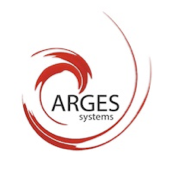
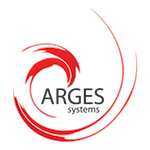
Work: Updated client images position and scale, added Temasek.

Changed region(s): [[0.08, 0.0533, 0.9333, 0.96], [0.6933, 0.7467, 0.8, 0.8533]]

diff --git a/work/index.html b/work/index.html
@@ -88,9 +88,10 @@
 				<div id="content">
 					<p>For more details, see my linkedin profile available in the sidebar. This page is intended as a quick overview. Below are some of the companies and titles I have either done freelance work for or licensed software to.</p>
 <center>
-	<p style="margin:none"><a href="http://www.autodesk.com"><img src="/resources/clients/autodesk.png" style="float:none;" title="Autodesk" alt="Autodesk" /></a></p>
-	<p style="margin:none; margin-bottom: 50pt;"><a href="http://dice.se"><img src="/resources/clients/dice.png" style="float:none;" title="DICE" alt="DICE" /></a>
+	<p style="margin:none; margin-bottom: -10pt;"><a href="http://www.autodesk.com"><img src="/resources/clients/autodesk.png" style="float:none;" title="Autodesk" alt="Autodesk" /></a></p>
+	<p style="margin:none; margin-bottom: 10pt;"><a href="http://dice.se"><img src="/resources/clients/dice.png" style="float:none;" title="DICE" alt="DICE" /></a>
 	<a href="http://arges-systems.com"><img src="/resources/clients/arges.png" style="float:none;" title="Arges Systems" alt="Arges Systems" /></a></p>
+	<p style="margin:none; margin-bottom: 10pt;"><a href="http://www.tp.edu.sg"><img src="/resources/clients/temasek.png" style="float:none;" title="Temasek Polytechnic" alt="Temasek Polytechnic" /></a></p>
 	<p style="margin:none; margin-bottom: 70pt;"><a href="http://gunsoficarus.com"><img src="/resources/clients/gunsoficarus.png" style="float:none;" title="Guns of Icarus" alt="Guns of Icarus" /></a>
 	<a href="http://hairytalesgame.com"><img src="/resources/clients/hairytales.png" style="float:none;" title="Hairy Tales" alt="Hairy Tales" /></a></p>
 </center>
